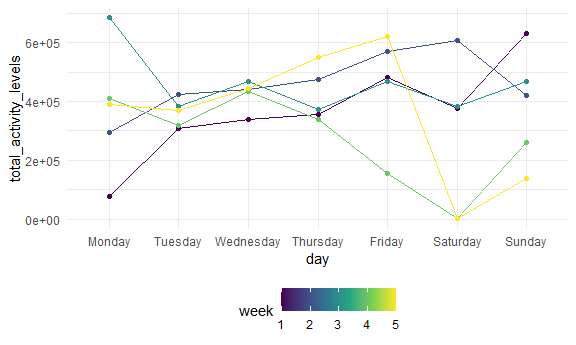
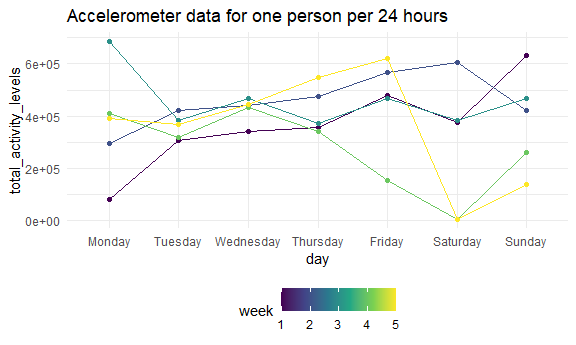
mostly working on problem 3

diff --git a/p8105_hw3_waa2119.md b/p8105_hw3_waa2119.md
@@ -137,7 +137,11 @@ ggplot(accel_data_summary, aes(x = day, y = total_activity_levels, color = week,
   
   geom_line() + 
   
-  geom_point()
+  geom_point() + 
+  
+  labs(
+    title = "Accelerometer data for one person per 24 hours"
+  )
 ```
 
 <img src="p8105_hw3_waa2119_files/figure-gfm/unnamed-chunk-4-1.png" width="90%" />
@@ -196,6 +200,14 @@ temperature in tenths of celsius
 Some entries in the prcp, snow, snwd, tmax, and tmin values are missing
 which does not allow for a robust analysis of this data
 
+The number of missing data in the prcp column is 145838
+
+The number of missing data in the prcp column is 591786
+
+The number of missing data in the prcp column is 1134358
+
+The number of missing data in the prcp column is 1134420
+
 Now we will clean the data
 
 ``` r
@@ -207,20 +219,25 @@ ny_noaa_tidy =
   
   separate(date, into = c("Year", "Month", "Day")) %>%
   
-  mutate(tmax = as.numeric(tmax), tmin = as.numeric(tmin), Year = as.numeric(Year), Month = as.numeric(Month), Day = as.numeric(Day)) %>%
+  mutate(tmax = as.numeric(tmax), tmin = as.numeric(tmin), Year = as.numeric(Year), Month = as.numeric(Month), Day = as.numeric(Day), snow = as.numeric(snow)) %>%
   
    mutate(Month = month.name[Month]) %>%
   
-  mutate(tmax = tmax * 10, 
-         tmin = tmin * 10, 
-         prcp = prcp * 10)
+  mutate(tmax = tmax/10, 
+         tmin = tmin/10, 
+         prcp = prcp/10)
+  
+most_snow = sort(table(ny_noaa_tidy$snow),decreasing = TRUE)[1:5]
 ```
 
-For snowfall, what are the most commonly observed values? Why?
+The most common snowfall values are 3850, 57, 45, 45, 25. The most
+common snowfall value is 0 mm because New York has many days in which it
+does not receive snow across the state. The next most common snowfall
+estimates are relatively small numbers as well since New York does not
+usually receive large amounts of snow each year.
 
-Make a two-panel plot showing the average max temperature in January and
-in July in each station across years. Is there any observable /
-interpretable structure? Any outliers?
+Now we will make a two-panel plot showing the average max temperature in
+January and in July in each station across years.
 
 ``` r
 ny_noaa_summary =
@@ -237,9 +254,22 @@ ny_noaa_summary =
     ## `.groups` argument.
 
 ``` r
-ggplot(ny_noaa_summary, aes(x = Year, y = mean_tmax, group = id)) + 
-    geom_line() + 
-    facet_grid(. ~ Month) 
+ggplot(ny_noaa_summary, aes(x = Year, y = mean_tmax, group = id, color = Month)) + 
+    geom_point(alpha = 0.5) + 
+    geom_smooth(alpha = 0.3, se = FALSE) + 
+    facet_grid(. ~ Month) +
+    theme(legend.position = "none") + 
+  labs(
+    title = "Average maximum temperature for NY Weather Stations", 
+    y = "Average Maximum Temperature (C)"
+      )
 ```
 
+    ## `geom_smooth()` using method = 'loess' and formula 'y ~ x'
+
 <img src="p8105_hw3_waa2119_files/figure-gfm/unnamed-chunk-7-1.png" width="90%" />
+
+The average temperatures are observably higher in July in New York
+compared to January, some years contain outliers as January can be seen
+having anomalous low temperatures and July has years with anomalous high
+temperatures outside the main cluster of data points.
